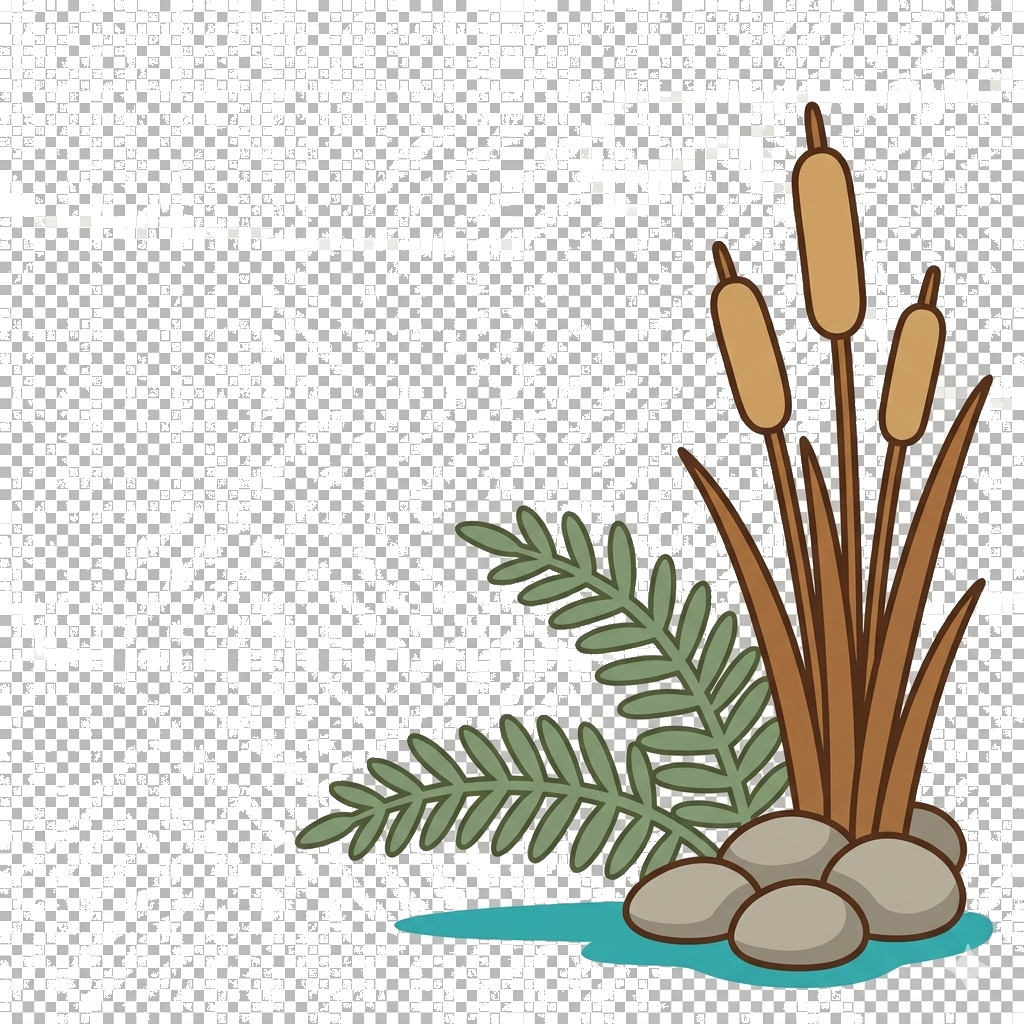
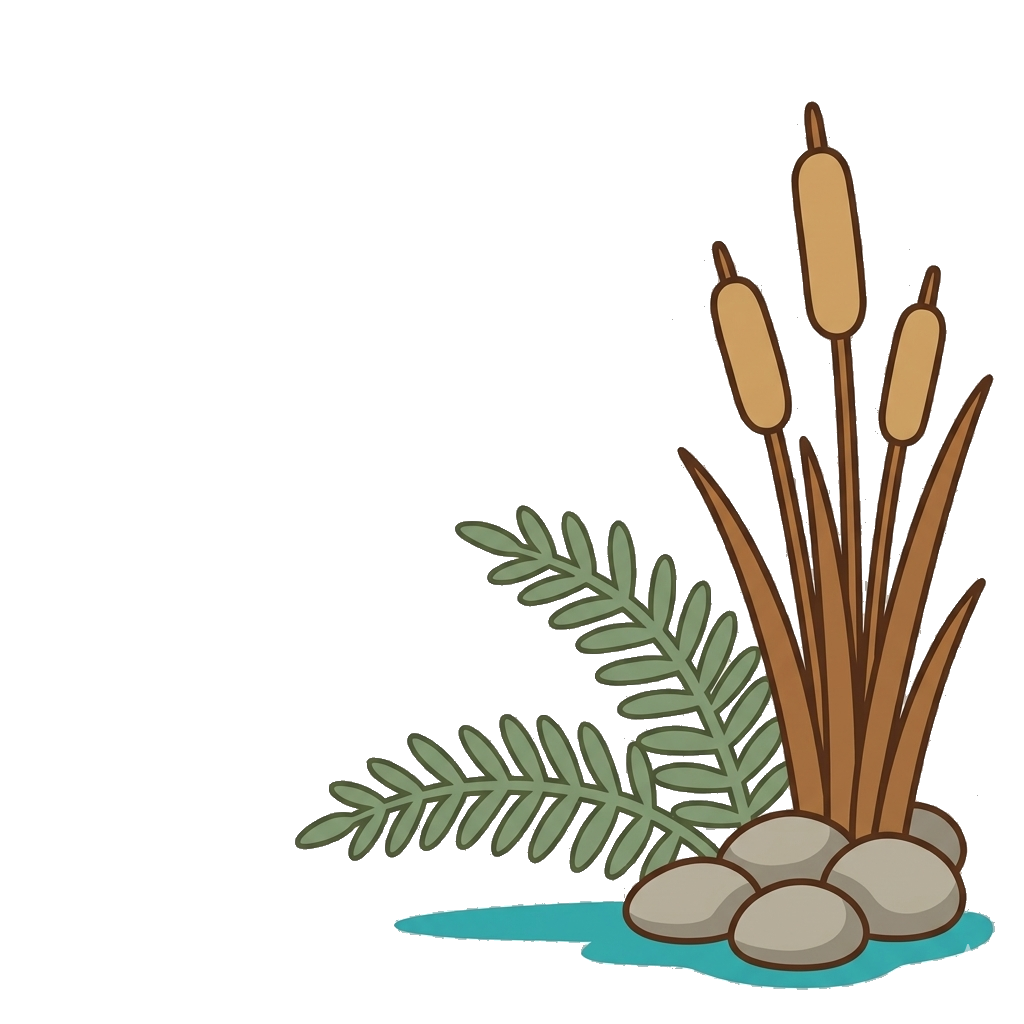
fix: audit fixes - corner vegetation, login mobile, streak card, dashboard greeting card cleanup

diff --git a/frontend/src/screens/Dashboard.jsx b/frontend/src/screens/Dashboard.jsx
@@ -154,39 +154,22 @@ export default function Dashboard() {
   return (
     <ScreenWrapper screenName="Dashboard">
       <div className="dashboard-world">
-      {/* Greeting card — river bank scene at bottom */}
+      {/* Greeting card */}
       <div className="dashboard-greeting">
-        {/* Water ripple rings behind Ott */}
-        <div className="dashboard-ripples" aria-hidden="true">
-          <div className="dashboard-ripple" />
-          <div className="dashboard-ripple" />
-          <div className="dashboard-ripple" />
-        </div>
         <div className="dashboard-greeting__content">
           <Ott state={ottState} size={120} />
           <h2 style={{ marginTop: 'var(--space-3)' }}>
             {greeting}
           </h2>
         </div>
-        {/* Bank scene — sits at bottom of card, transparent sky shows card bg */}
-        <img
-          src="/ott/ott-bank-header.png"
-          alt=""
-          aria-hidden="true"
-          className="dashboard-greeting__bank"
-        />
       </div>
 
-      {/* Streak card with kelp wrap accent */}
-      <Card className="streak-card" style={{
+      {/* Streak card */}
+      <Card style={{
         textAlign: 'center',
         marginBottom: 'var(--space-4)',
-        background: `
-          radial-gradient(circle at 30% 50%, rgba(43,181,192,0.12) 0%, transparent 50%),
-          radial-gradient(circle at 70% 30%, rgba(43,181,192,0.10) 0%, transparent 40%),
-          radial-gradient(circle at 50% 80%, rgba(43,181,192,0.08) 0%, transparent 35%),
-          white
-        `,
+        position: 'relative',
+        overflow: 'hidden',
       }}>
         {/* Watermark streak icon — ambient texture, top-right */}
         <img
@@ -222,13 +205,6 @@ export default function Dashboard() {
         <p style={{ color: 'var(--color-text-muted)', fontSize: '13px', marginTop: 'var(--space-1)' }}>
           {streakHint}
         </p>
-        {/* Kelp wrap — loyalty/connection ambient texture */}
-        <img
-          src="/ott/ott-kelp-wrap.png"
-          alt=""
-          aria-hidden="true"
-          className="streak-card__kelp"
-        />
       </Card>
 
       {/* Pipeline summary — meaningful job-search counts */}
@@ -403,19 +379,6 @@ export default function Dashboard() {
         </div>
       )}
 
-      {/* Corner vegetation framing */}
-      <img
-        src="/ott/ott-corner-left.png"
-        alt=""
-        aria-hidden="true"
-        className="dashboard-world__corner dashboard-world__corner--left"
-      />
-      <img
-        src="/ott/ott-corner-right.png"
-        alt=""
-        aria-hidden="true"
-        className="dashboard-world__corner dashboard-world__corner--right"
-      />
       </div>{/* end dashboard-world */}
     </ScreenWrapper>
   );

diff --git a/frontend/src/screens/Dashboard.css b/frontend/src/screens/Dashboard.css
@@ -2,27 +2,9 @@
    Dashboard — responsive layout tweaks
    ============================================ */
 
-/* === Otter world — outer wrapper for corner framing === */
+/* === Otter world — outer wrapper === */
 .dashboard-world {
   position: relative;
-  overflow: hidden;
-}
-
-.dashboard-world__corner {
-  position: fixed;
-  bottom: 60px;
-  width: 120px;
-  pointer-events: none;
-  z-index: 0;
-  opacity: 0.85;
-}
-
-.dashboard-world__corner--left {
-  left: 0;
-}
-
-.dashboard-world__corner--right {
-  right: 0;
 }
 
 /* === Greeting card — river bank scene === */
@@ -41,76 +23,6 @@
   padding: var(--space-6) var(--space-4);
   margin-bottom: var(--space-6);
   box-shadow: var(--shadow-sm);
-}
-
-/* Bank header scene image at bottom of card */
-.dashboard-greeting__bank {
-  position: absolute;
-  bottom: 0;
-  left: 0;
-  right: 0;
-  width: 100%;
-  height: auto;
-  z-index: 0;
-  pointer-events: none;
-}
-
-/* Greeting content sits above overlay */
-.dashboard-greeting__content {
-  position: relative;
-  z-index: 1;
-}
-
-/* === Water ripple rings === */
-.dashboard-ripples {
-  position: absolute;
-  top: 50%;
-  left: 50%;
-  transform: translate(-50%, -50%);
-  z-index: 0;
-  pointer-events: none;
-}
-
-.dashboard-ripple {
-  position: absolute;
-  top: 50%;
-  left: 50%;
-  width: 60px;
-  height: 60px;
-  margin-top: -30px;
-  margin-left: -30px;
-  border: 2px solid rgba(43, 181, 192, 0.3);
-  border-radius: 50%;
-  animation: dashboard-ripple 3s infinite ease-out;
-}
-
-.dashboard-ripple:nth-child(2) {
-  animation-delay: 0.8s;
-}
-
-.dashboard-ripple:nth-child(3) {
-  animation-delay: 1.6s;
-}
-
-@keyframes dashboard-ripple {
-  0%   { transform: scale(0.8); opacity: 0.6; }
-  100% { transform: scale(2.5); opacity: 0; }
-}
-
-/* === Streak card — kelp accent === */
-.streak-card {
-  position: relative;
-  overflow: hidden;
-}
-
-.streak-card__kelp {
-  position: absolute;
-  bottom: -8px;
-  left: 50%;
-  transform: translateX(-50%);
-  width: 80px;
-  opacity: 0.4;
-  pointer-events: none;
 }
 
 /* === Paw print divider === */

diff --git a/frontend/src/screens/Login.jsx b/frontend/src/screens/Login.jsx
@@ -32,7 +32,8 @@ export default function Login() {
   };
 
   return (
-    <div className="auth-screen" style={{ position: 'relative', overflow: 'hidden' }}>
+    <div className="auth-screen" style={{ position: 'relative', overflow: 'visible' }}>
+      <style>{`.auth-corner{width:80px}@media(min-width:481px){.auth-corner{width:120px}}`}</style>
       <div className="auth-screen__inner" style={{ position: 'relative', zIndex: 1 }}>
         <div style={{ textAlign: 'center', marginBottom: 'var(--space-6)' }}>
           <img
@@ -97,8 +98,8 @@ export default function Login() {
         </p>
       </div>
       {/* Corner vegetation framing */}
-      <img src="/ott/ott-corner-left.png" alt="" aria-hidden="true" style={{ position: 'fixed', bottom: 60, left: 0, width: 120, pointerEvents: 'none', zIndex: 0, opacity: 0.85 }} />
-      <img src="/ott/ott-corner-right.png" alt="" aria-hidden="true" style={{ position: 'fixed', bottom: 60, right: 0, width: 120, pointerEvents: 'none', zIndex: 0, opacity: 0.85 }} />
+      <img src="/ott/ott-corner-left.png" alt="" aria-hidden="true" className="auth-corner" style={{ position: 'fixed', bottom: 60, left: 0, pointerEvents: 'none', zIndex: 2, opacity: 0.85 }} />
+      <img src="/ott/ott-corner-right.png" alt="" aria-hidden="true" className="auth-corner" style={{ position: 'fixed', bottom: 60, right: 0, pointerEvents: 'none', zIndex: 2, opacity: 0.85 }} />
     </div>
   );
 }

diff --git a/frontend/src/screens/Results.jsx b/frontend/src/screens/Results.jsx
@@ -1335,13 +1335,13 @@ export default function Results() {
         src="/ott/ott-corner-left.png"
         alt=""
         aria-hidden="true"
-        style={{ position: 'fixed', bottom: 60, left: 0, width: 120, pointerEvents: 'none', zIndex: 0, opacity: 0.85 }}
+        style={{ position: 'fixed', bottom: 60, left: 0, width: 120, pointerEvents: 'none', zIndex: 10, opacity: 0.85 }}
       />
       <img
         src="/ott/ott-corner-right.png"
         alt=""
         aria-hidden="true"
-        style={{ position: 'fixed', bottom: 60, right: 0, width: 120, pointerEvents: 'none', zIndex: 0, opacity: 0.85 }}
+        style={{ position: 'fixed', bottom: 60, right: 0, width: 120, pointerEvents: 'none', zIndex: 10, opacity: 0.85 }}
       />
       </div>
     </ScreenWrapper>
